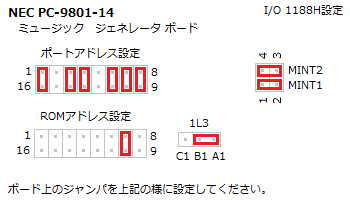
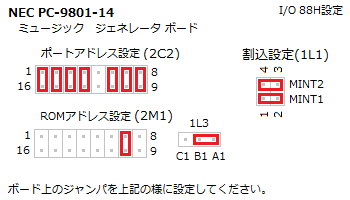
14ボード設定を変更

diff --git a/C86BoxConfig/BoardTypeDef.cs b/C86BoxConfig/BoardTypeDef.cs
@@ -33,7 +33,7 @@ namespace C86BoxConfig
             new BoardInfo(0, "接続なし", "none"),
             new BoardInfo(0x40000000, "自動設定", "none"),
             
-            new BoardInfo(0x00001, "NEC PC-9801-14 (1188H) （未検証）", "nec_pc9801_14"),
+            new BoardInfo(0x00001, "NEC PC-9801-14 （88H設定）", "nec_pc9801_14"),
             new BoardInfo(0x00002, "NEC PC-9801-26/26K", "nec_pc9801_26"),
             new BoardInfo(0x00003, "NEC PC-9801-73 （0188H設定）", "nec_pc9801_73_0188"),
             new BoardInfo(0x10003, "NEC PC-9801-73 （0088H設定）", "nec_pc9801_73_0288"),

diff --git a/C86BoxConfig/Properties/AssemblyInfo.cs b/C86BoxConfig/Properties/AssemblyInfo.cs
@@ -32,5 +32,5 @@ using System.Runtime.InteropServices;
 // すべての値を指定するか、下のように '*' を使ってビルドおよびリビジョン番号を 
 // 既定値にすることができます:
 // [assembly: AssemblyVersion("1.0.*")]
-[assembly: AssemblyVersion("1.0.1.0")]
-[assembly: AssemblyFileVersion("1.0.1.0")]
+[assembly: AssemblyVersion("1.1.1.0")]
+[assembly: AssemblyFileVersion("1.1.1.0")]
